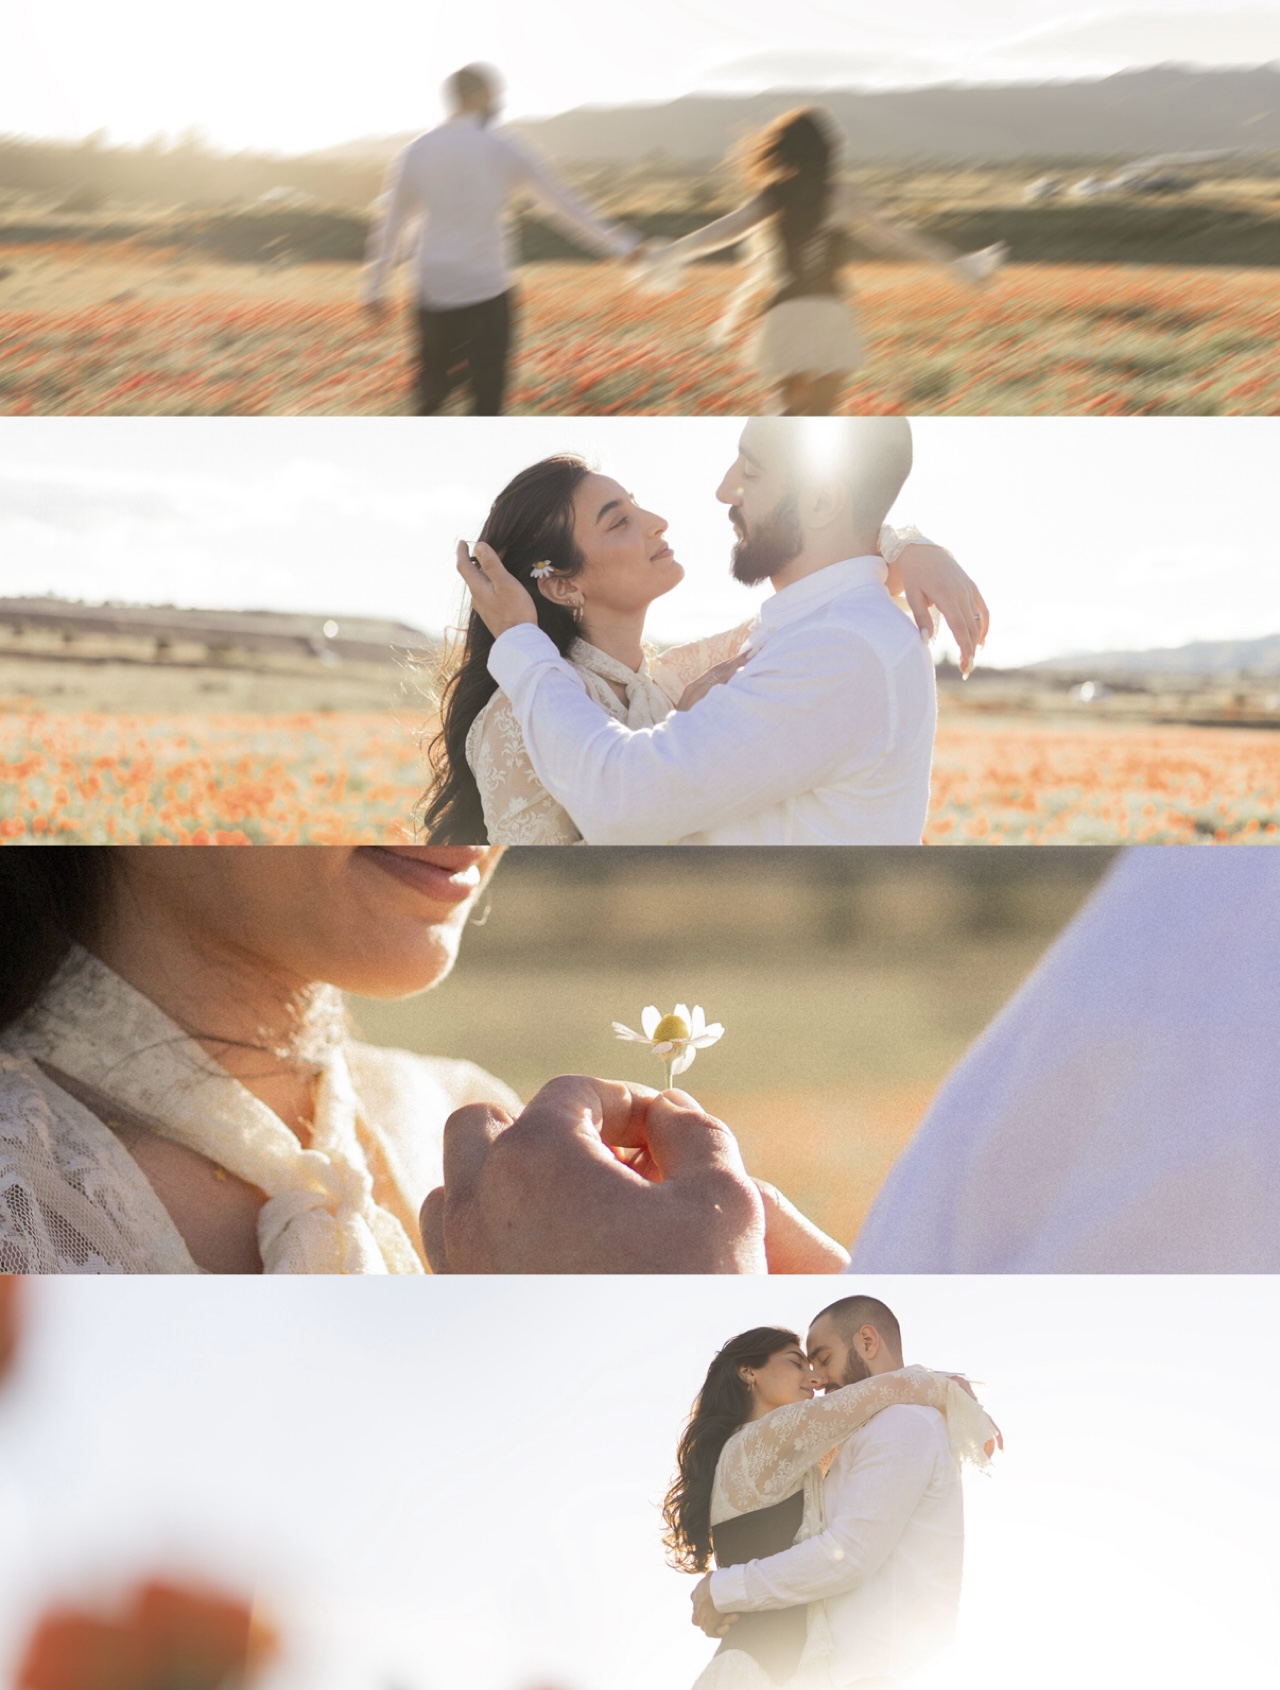
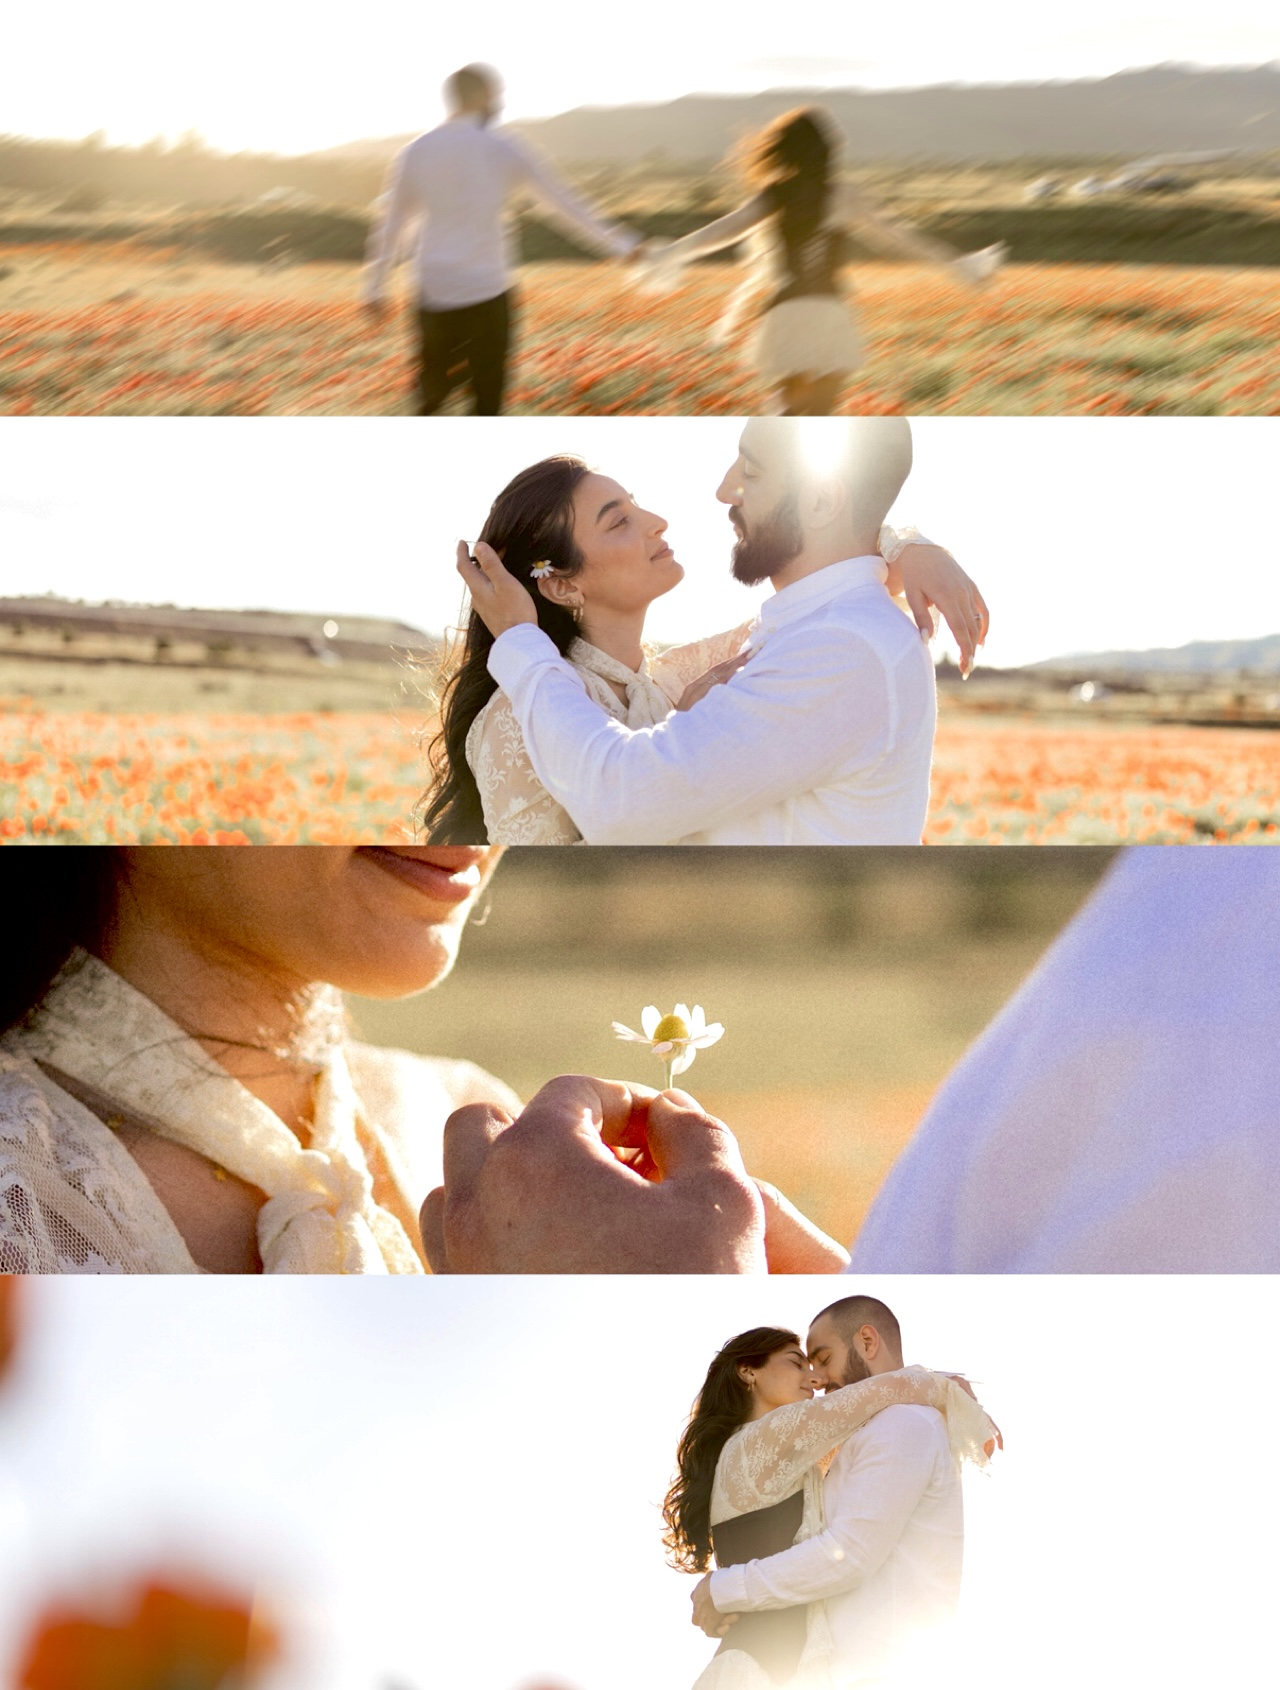
Apply box_bg.png background to all three location cards

diff --git a/src/App.tsx b/src/App.tsx
@@ -1,5 +1,5 @@
 import { useEffect, useRef, useState } from "react";
-import { Calendar, Church, Clock, Heart, Home, MapPin, Music, Music2, UtensilsCrossed } from "lucide-react";
+import { Church, Clock, Heart, Home, MapPin, Music, Music2, UtensilsCrossed } from "lucide-react";
 
 const WEDDING_DATE = new Date("2026-09-05T14:30:00");
 const HERO_BG = "url('/assets/hero.jpg'), url('/assets/placeholder-hero.svg')";
@@ -11,7 +11,8 @@ const MAP_LINKS = {
   church: "https://yandex.com/navi/org/srb_zoravor_astvatsatsin_yekeghetsi/183055721455",
   restaurant: "https://yandex.com/navi/org/ojakh/69357937409"
 };
-const LOCATION_CARD_CLASS = "h-full space-y-4 rounded-xl border border-border bg-card p-6 text-center shadow-sm md:p-8";
+const LOCATION_CARD_CLASS = "relative rounded-2xl shadow-lg text-center overflow-hidden min-h-[360px]";
+const CARD_BG: React.CSSProperties = { backgroundImage: "url('/assets/box_bg.png')", backgroundSize: "100% 100%" };
 const LOCATION_ROW_CLASS = "flex items-start justify-center gap-2 text-base text-muted-foreground md:text-lg";
 const MAP_LINK_CLASS = "inline-flex items-center justify-center text-sm font-medium text-primary underline-offset-2 transition hover:underline";
 const NUMBER_FONT_CLASS = "number-font";
@@ -54,6 +55,39 @@ function CountdownUnit({ value, label }: { value: number; label: string }) {
         <span className="text-base font-medium text-primary md:text-3xl">{String(value).padStart(2, "0")}</span>
       </div>
       <span className="text-[10px] uppercase tracking-widest text-muted-foreground md:text-xs">{label}</span>
+    </div>
+  );
+}
+
+function useReveal() {
+  const ref = useRef<HTMLDivElement>(null);
+  const [visible, setVisible] = useState(false);
+  useEffect(() => {
+    const el = ref.current;
+    if (!el) return;
+    const observer = new IntersectionObserver(
+      ([entry]) => { if (entry.isIntersecting) { setVisible(true); observer.disconnect(); } },
+      { threshold: 0.12 }
+    );
+    observer.observe(el);
+    return () => observer.disconnect();
+  }, []);
+  return { ref, visible };
+}
+
+function Reveal({ children, delay = 0 }: { children: React.ReactNode; delay?: number }) {
+  const { ref, visible } = useReveal();
+  return (
+    <div
+      ref={ref}
+      style={{
+        transitionDelay: `${delay}ms`,
+        transition: "opacity 0.7s ease, transform 0.7s ease",
+        opacity: visible ? 1 : 0,
+        transform: visible ? "translateY(0)" : "translateY(28px)"
+      }}
+    >
+      {children}
     </div>
   );
 }
@@ -122,7 +156,7 @@ export default function App() {
 
     <div className="relative z-10 mx-auto max-w-2xl space-y-6 text-center md:pt-20">
       <div className="space-y-2">
-        <h1 className="text-6xl font-light italic leading-none text-white drop-shadow-lg md:text-8xl">
+        <h1 className="text-6xl font-light leading-none text-white drop-shadow-lg md:text-8xl" style={{ fontFamily: "'Great Vibes', cursive" }}>
           Ռոբերտ
         </h1>
 
@@ -132,7 +166,7 @@ export default function App() {
           <div className="h-px w-16 bg-white/40" />
         </div>
 
-        <h1 className="text-6xl font-light italic leading-none text-white drop-shadow-lg md:text-8xl">
+        <h1 className="text-6xl font-light leading-none text-white drop-shadow-lg md:text-8xl" style={{ fontFamily: "'Great Vibes', cursive" }}>
           Ելենա
         </h1>
       </div>
@@ -142,6 +176,7 @@ export default function App() {
   <Ornament />
 
   <section className="px-6 py-2 text-center">
+    <Reveal>
     <p className="mx-auto max-w-2xl text-center text-lg italic font-light leading-relaxed text-foreground md:text-xl">
       Սիրով հրավիրում ենք ձեզ մասնակցելու
       <br />
@@ -150,24 +185,26 @@ export default function App() {
         <Heart className="h-5 w-5 fill-[#C3A795] text-[#C3A795] md:h-6 md:w-6" />
       </span>
     </p>
+    </Reveal>
   </section>
 
       <section className="px-6 py-8">
-        <div className="mx-auto max-w-2xl rounded-2xl border border-white/30 bg-[#C3A795] px-5 py-8 text-white shadow-lg md:px-10">
+        <Reveal>
+        <div className="mx-auto max-w-2xl rounded-2xl border border-white/30 bg-[#C3A795] px-5 py-7 text-white shadow-lg md:px-10">
           <div className="mb-6 flex items-center justify-center gap-4 md:gap-8">
-            <div className="h-px w-16 bg-white/70 md:w-24" />
+            <div className="h-px w-16 translate-y-3 bg-white/70 md:w-24 md:translate-y-3" />
 
             <h2
               className="text-5xl font-bold italic md:text-7xl"
-              style={{ fontFamily: "'Cormorant Garamond', serif" }}
+               style={{ fontFamily: "'Great Vibes', cursive" }}
             >
               Սեպտեմբեր
             </h2>
 
-            <div className="h-px w-16 bg-white/70 md:w-24" />
+            <div className="h-px w-16 translate-y-3 bg-white/70 md:w-24 md:translate-y-3" />
           </div>
 
-          <div className="grid grid-cols-7 gap-y-3 text-center md:gap-y-5">
+          <div className="grid grid-cols-7 gap-y-4 text-center md:gap-y-5">
             {CALENDAR_WEEK_DAYS.map((day) => (
               <p key={day} className="text-lg font-bold tracking-wider text-white md:text-3xl">
                 {day}
@@ -194,11 +231,13 @@ export default function App() {
             ))}
           </div>
         </div>
+        </Reveal>
       </section>
 
       <Ornament />
 
       <section className="px-6 py-0">
+        <Reveal>
         <div className="mx-auto max-w-xl space-y-6 text-center">
           <h2 className="text-xl font-light italic text-foreground md:text-2xl">Հարսանյաց հանդեսին մնացել է</h2>
           <div className="flex items-start justify-center gap-3 md:gap-6">
@@ -211,6 +250,7 @@ export default function App() {
             <CountdownUnit value={timeLeft.seconds} label="Վրկ" />
           </div>
         </div>
+        </Reveal>
       </section>
 
       <Ornament />
@@ -256,117 +296,67 @@ export default function App() {
 
       <section className="px-6 py-4">
         <div className="mx-auto max-w-3xl space-y-10">
+          <Reveal>
           <div className="space-y-2 text-center">
        
             <h2 className="text-3xl font-light italic text-foreground md:text-4xl">Ժամանակ և վայր</h2>
           </div>
+          </Reveal>
 
           <div className="grid gap-6 md:grid-cols-2 xl:grid-cols-3">
-            <div className={LOCATION_CARD_CLASS}>
-              <div className="flex justify-center">
-                <div className="flex h-12 w-12 items-center justify-center rounded-full bg-accent">
-                  <Home className="h-5 w-5 text-primary" />
-                </div>
+            <Reveal delay={0}><div className={LOCATION_CARD_CLASS} style={CARD_BG}>
+              <div className="absolute left-1/2 top-10 -translate-x-1/2 flex h-16 w-16 items-center justify-center rounded-full bg-accent/70">
+                <Home className="h-6 w-6 text-primary" />
               </div>
-
-              <h3 className="text-xl font-medium leading-snug tracking-wide md:text-2xl" style={{ fontFamily: "'Cinzel', serif" }}>
-                Հարսի տուն  
-              </h3>
-
-              <div className="space-y-3">
-
-                <div className="flex items-center justify-center gap-2">
-                  <Clock className="h-5 w-5 shrink-0 text-primary/80 md:h-6 md:w-6" />
-                 <span className={`${NUMBER_FONT_CLASS} text-4xl font-bold text-primary md:text-6xl`}>12։30</span>
+              <div className="flex flex-col items-center px-14 pt-36 pb-16 space-y-3">
+                <h3 className="text-xl font-medium leading-snug tracking-wide md:text-2xl" style={{ fontFamily: "'Cinzel', serif" }}>Հարսի տուն</h3>
+                <div className="flex items-center justify-center gap-2 pt-1">
+                  <Clock className="h-5 w-5 shrink-0 text-primary/80" />
+                  <span className={`${NUMBER_FONT_CLASS} text-4xl font-bold text-primary md:text-5xl`}>12։30</span>
                 </div>
-
-                <div className={LOCATION_ROW_CLASS}>
-                  <MapPin className="mt-0.5 h-5 w-5 shrink-0 text-primary/70" />
+                <div className="flex items-start justify-center gap-2 text-sm text-muted-foreground">
+                  <MapPin className="mt-0.5 h-4 w-4 shrink-0 text-primary/60" />
                   <span className="font-medium">Լեռ Կամսար 30/3</span>
                 </div>
-
-                <a
-                  href={MAP_LINKS.brideHouse}
-                  target="_blank"
-                  rel="noreferrer"
-                  className={MAP_LINK_CLASS}
-                >
-                  Բացել քարտեզը
-                </a>
+                <a href={MAP_LINKS.brideHouse} target="_blank" rel="noreferrer" className={MAP_LINK_CLASS}>Բացել քարտեզը</a>
               </div>
-            </div>
+            </div></Reveal>
 
-            <div className={LOCATION_CARD_CLASS}>
-              <div className="flex justify-center">
-                <div className="flex h-12 w-12 items-center justify-center rounded-full bg-accent">
-                  <Church className="h-5 w-5 text-primary" />
-                </div>
+            <Reveal delay={100}><div className={LOCATION_CARD_CLASS} style={CARD_BG}>
+              <div className="absolute left-1/2 top-10 -translate-x-1/2 flex h-16 w-16 items-center justify-center rounded-full bg-accent/70">
+                <Church className="h-6 w-6 text-primary" />
               </div>
-
-              <h3 className="text-xl font-medium leading-snug tracking-wide md:text-2xl" style={{ fontFamily: "'Cinzel', serif" }}>
-                Պսակադրություն
-              </h3>
-
-              <div className="space-y-3">
-                <div className="flex items-center justify-center gap-2">
-                  <Clock className="h-5 w-5 shrink-0 text-primary/80 md:h-6 md:w-6" />
-                  <span className={`${NUMBER_FONT_CLASS} text-4xl font-bold text-primary md:text-6xl`}>14։30</span>
+              <div className="flex flex-col items-center px-14 pt-36 pb-16 space-y-3">
+                <h3 className="text-xl font-medium leading-snug tracking-wide md:text-2xl" style={{ fontFamily: "'Cinzel', serif" }}>Պսակադրություն</h3>
+                <div className="flex items-center justify-center gap-2 pt-1">
+                  <Clock className="h-5 w-5 shrink-0 text-primary/80" />
+                  <span className={`${NUMBER_FONT_CLASS} text-4xl font-bold text-primary md:text-5xl`}>14։30</span>
                 </div>
-
-              <div className={LOCATION_ROW_CLASS}>
-  <MapPin className="mt-1 h-5 w-5 shrink-0 text-primary/70" />
-
-  <span className="font-medium leading-snug">
-    Սուրբ Զորավոր Աստվածածին
-    <br />
-    Եկեղեցի
-  </span>
-</div>
-
-                <a
-                  href={MAP_LINKS.church}
-                  target="_blank"
-                  rel="noreferrer"
-                  className={MAP_LINK_CLASS}
-                >
-                  Բացել քարտեզը
-                </a>
+                <div className="flex items-start justify-center gap-2 text-sm text-muted-foreground">
+                  <MapPin className="mt-0.5 h-4 w-4 shrink-0 text-primary/60" />
+                  <span className="font-medium leading-snug">Սուրբ Զորավոր Աստվածածին<br />Եկեղեցի</span>
+                </div>
+                <a href={MAP_LINKS.church} target="_blank" rel="noreferrer" className={MAP_LINK_CLASS}>Բացել քարտեզը</a>
               </div>
-            </div>
+            </div></Reveal>
 
-            <div className={LOCATION_CARD_CLASS}>
-              <div className="flex justify-center">
-                <div className="flex h-12 w-12 items-center justify-center rounded-full bg-accent">
-                  <UtensilsCrossed className="h-5 w-5 text-primary" />
-                </div>
+            <Reveal delay={200}><div className={LOCATION_CARD_CLASS} style={CARD_BG}>
+              <div className="absolute left-1/2 top-10 -translate-x-1/2 flex h-16 w-16 items-center justify-center rounded-full bg-accent/70">
+                <UtensilsCrossed className="h-6 w-6 text-primary" />
               </div>
-
-              <h3 className="text-xl font-medium tracking-wide md:text-2xl" style={{ fontFamily: "'Cinzel', serif" }}>
-                Հյուրերի դիմավորում
-              </h3>
-
-              <div className="space-y-3">
-
-                <div className="flex items-center justify-center gap-2">
-                  <Clock className="h-5 w-5 shrink-0 text-primary/80 md:h-6 md:w-6" />
-                  <span className={`${NUMBER_FONT_CLASS} text-4xl font-bold text-primary md:text-6xl`}>17։30</span>
+              <div className="flex flex-col items-center px-14 pt-36 pb-16 space-y-3">
+                <h3 className="text-xl font-medium tracking-wide md:text-2xl" style={{ fontFamily: "'Cinzel', serif" }}>Հյուրերի դիմավորում</h3>
+                <div className="flex items-center justify-center gap-2 pt-1">
+                  <Clock className="h-5 w-5 shrink-0 text-primary/80" />
+                  <span className={`${NUMBER_FONT_CLASS} text-4xl font-bold text-primary md:text-5xl`}>17։30</span>
                 </div>
-
-                <div className={LOCATION_ROW_CLASS}>
-                  <MapPin className="mt-0.5 h-5 w-5 shrink-0 text-primary/70" />
+                <div className="flex items-start justify-center gap-2 text-sm text-muted-foreground">
+                  <MapPin className="mt-0.5 h-4 w-4 shrink-0 text-primary/60" />
                   <span className="font-medium">Օջախ ռեստորան, Կոտայք</span>
                 </div>
-
-                <a
-                  href={MAP_LINKS.restaurant}
-                  target="_blank"
-                  rel="noreferrer"
-                  className={MAP_LINK_CLASS}
-                >
-                  Բացել քարտեզը
-                </a>
+                <a href={MAP_LINKS.restaurant} target="_blank" rel="noreferrer" className={MAP_LINK_CLASS}>Բացել քարտեզը</a>
               </div>
-            </div>
+            </div></Reveal>
           </div>
         </div>
       </section>
@@ -374,13 +364,16 @@ export default function App() {
       <Ornament />
 
       <section className="px-6 py-0">
+        <Reveal>
         <div className="mx-auto max-w-md space-y-6 text-center">
           <p className="text-lg font-light text-foreground">
             Մենք ուրախ կլինենք նշել այս հատուկ օրը ձեզ հետ։ Խնդրում ենք հաստատել մասնակցությունը մինչև օգոստոսի 20-ը։
           </p>
         </div>
+        </Reveal>
       </section>
 
+      <Reveal>
       <footer className=" px-6 py-10 text-center">
         <div className="mb-3 flex items-center justify-center gap-3">
           <div className="h-px w-12 bg-border" />
@@ -391,6 +384,16 @@ export default function App() {
         <p className="text-2xl font-light italic text-muted-foreground">Ռոբերտ &amp; Ելենա</p>
         <p className={`${NUMBER_FONT_CLASS} mt-1 text-xs uppercase tracking-widest text-muted-foreground/60`}>Սեպտեմբեր 5, 2026</p>
       </footer>
+      </Reveal>
+
+      <div className="h-72 overflow-hidden md:h-[480px]">
+        <img
+          src="/assets/gallery6.jpeg"
+          alt="Robert and Yelena closing photo"
+          onError={applyGalleryFallback}
+          className="h-full w-full object-cover"
+        />
+      </div>
     </div>
   );
 }

diff --git a/src/styles.css b/src/styles.css
@@ -1,5 +1,13 @@
 @import url("https://fonts.googleapis.com/css2?family=Cinzel:wght@400;500;600&family=Cormorant+Garamond:ital,wght@0,300;0,400;0,500;1,300;1,400&display=swap");
 
+@font-face {
+  font-family: 'Great Vibes';
+  src: url('/assets/Great_Vibes/GreatVibes-Regular.ttf') format('truetype');
+  font-weight: normal;
+  font-style: normal;
+  font-display: swap;
+}
+
 @tailwind base;
 @tailwind components;
 @tailwind utilities;